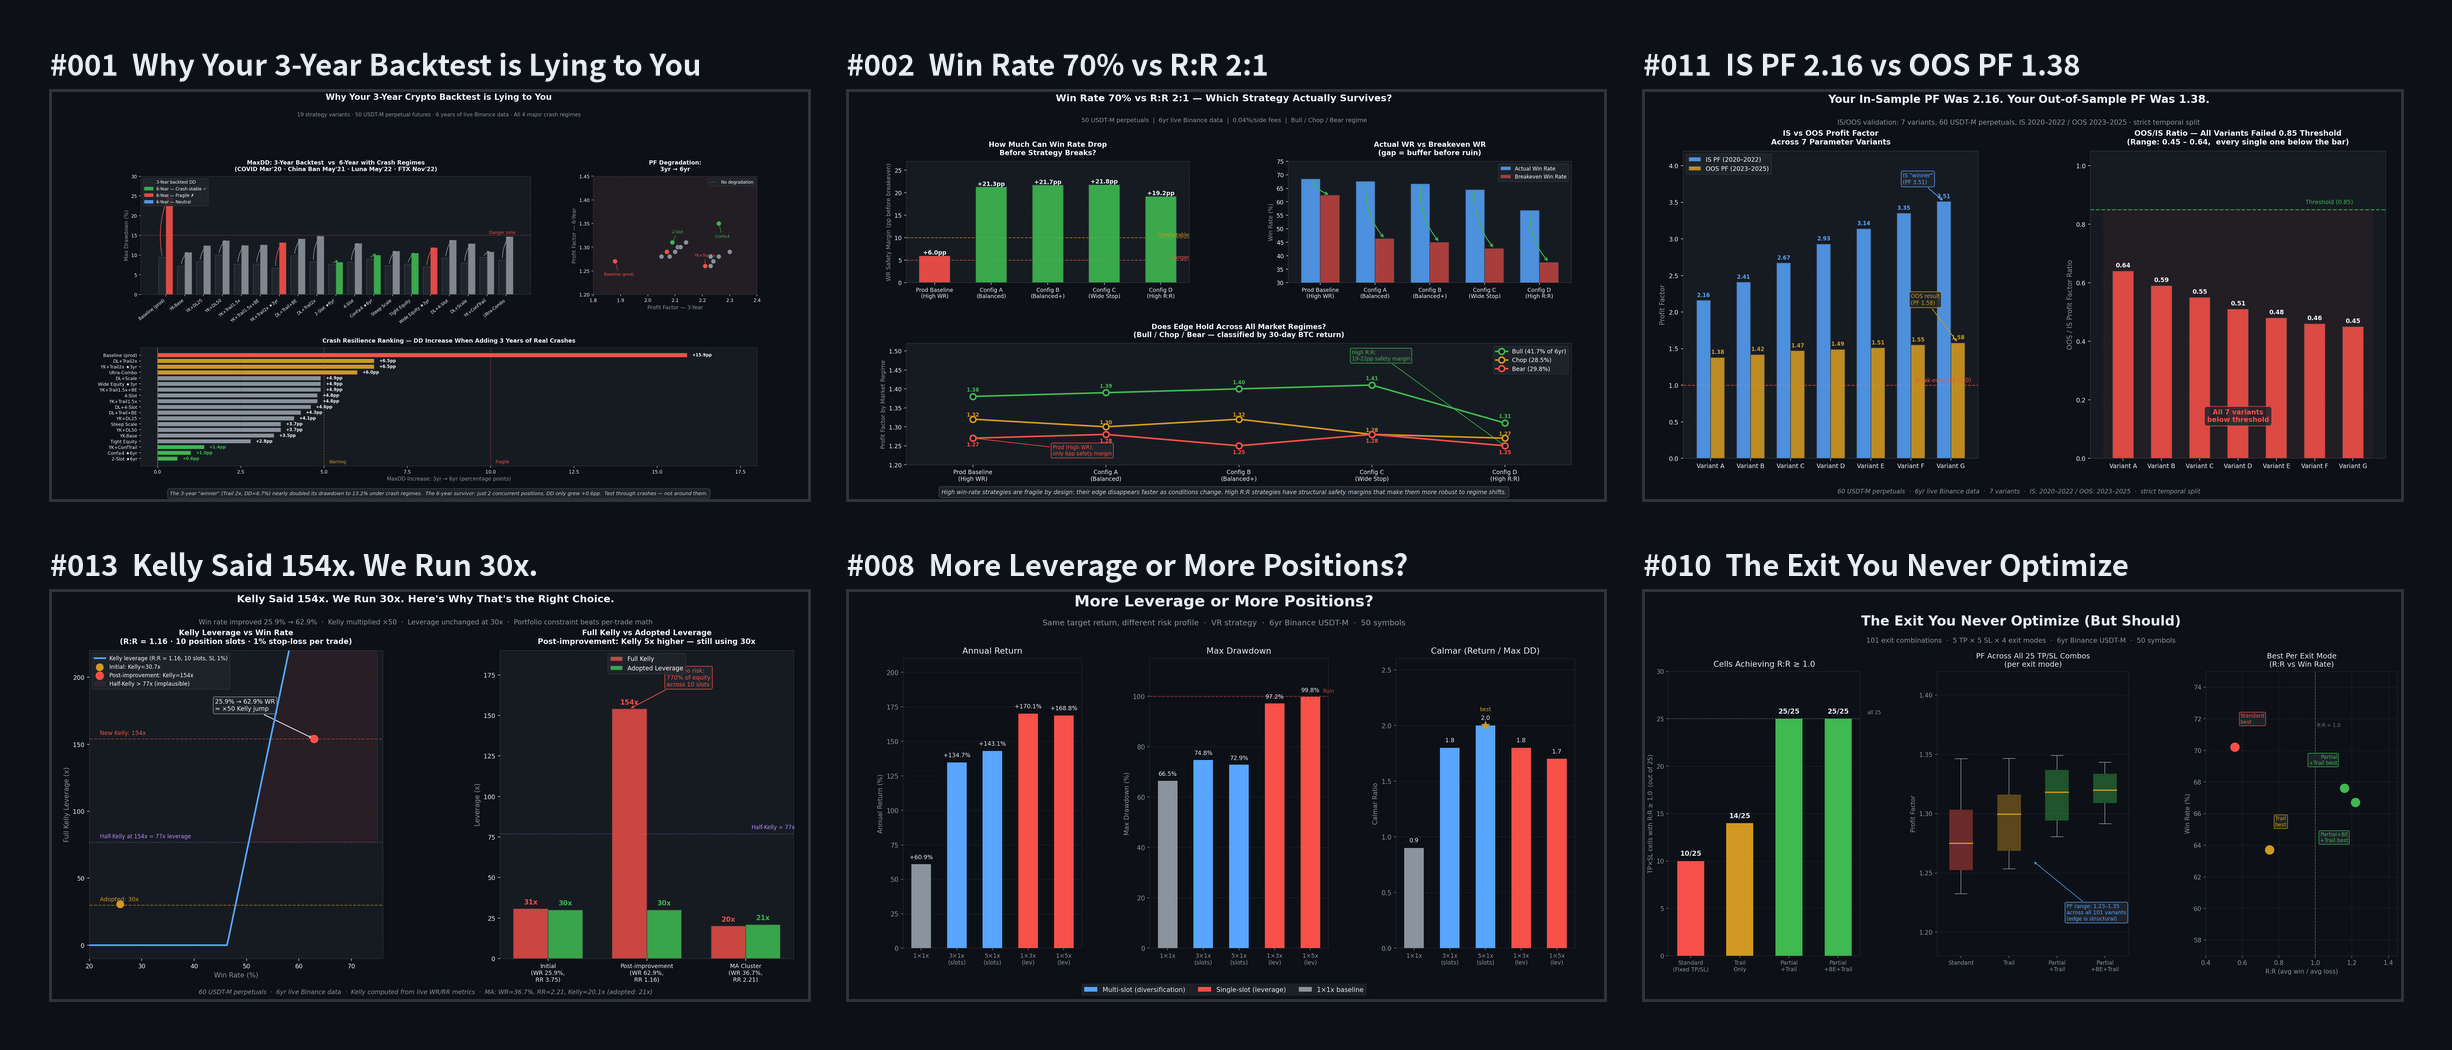
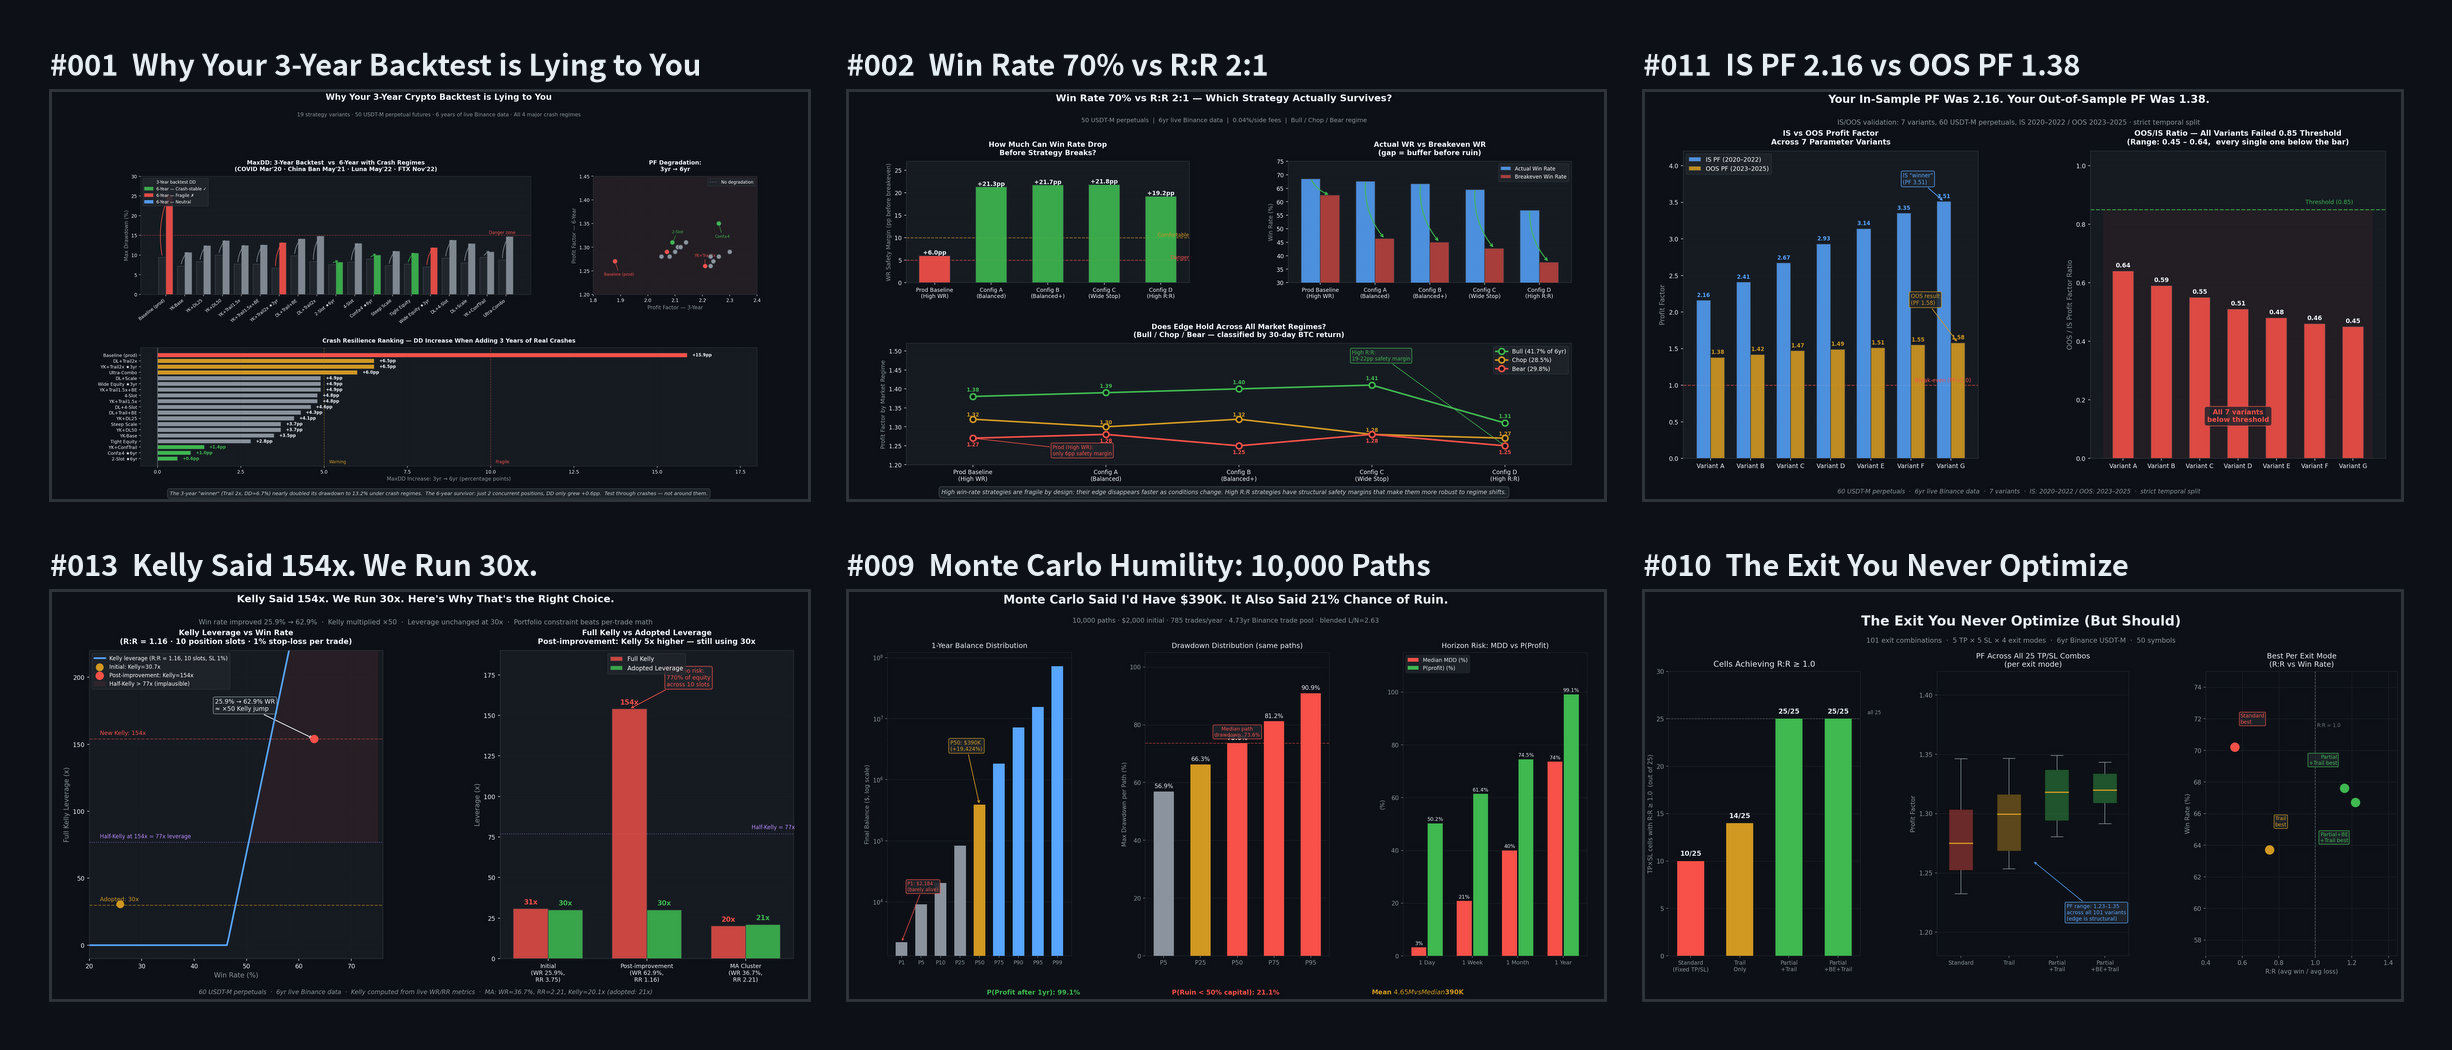
docs(readme): 첫 화면을 훅·히어로·사실 셋·Quick start 로 다듬고 독립 리뷰를 반영
처음 보는 사람이 스크롤 전에 무엇인지·왜 흥미로운지·어떻게 써 보는지를 알게 한다.
본문은 위에서 아래로 읽을 때 필요한 것만 남기고, 모든 수치는 코드·데이터와 대조했다.
리뷰어가 짚은 과장·낡은 수치·깨진 예제를 고쳤다. 관련 프로젝트 푸터는 stack.yml 생성분 그대로.

diff --git a/scripts/make_hero.py b/scripts/make_hero.py
@@ -25,7 +25,7 @@ PICKS = [
     ("002", "Win Rate 70% vs R:R 2:1", "insights/post_002/post_002_wr_vs_rr.png"),
     ("011", "IS PF 2.16 vs OOS PF 1.38", "insights/post_011/post_011_is_oos_divergence.png"),
     ("013", "Kelly Said 154x. We Run 30x.", "insights/post_013/post_013_kelly_leverage.png"),
-    ("008", "More Leverage or More Positions?", "insights/post_008/post_008_leverage_vs_slots.png"),
+    ("009", "Monte Carlo Humility: 10,000 Paths", "insights/post_009/post_009_monte_carlo_humility.png"),
     ("010", "The Exit You Never Optimize", "insights/post_010/post_010_exit_mode_beats_tpsl.png"),
 ]
 

diff --git a/README.md b/README.md
@@ -1,37 +1,41 @@
 # Crypto Quant Insights 📈
 
+Fourteen chart-backed lessons from validating a live Binance USDT-M futures system — what held up out-of-sample, what looked good and quietly wasn't, and why. The strategy stays private; the findings don't.
+
 [![License: MIT](https://img.shields.io/badge/License-MIT-blue.svg)](LICENSE)
 [![LinkedIn](https://img.shields.io/badge/LinkedIn-younghwan--chae-0A66C2?logo=linkedin&logoColor=white)](https://www.linkedin.com/in/younghwan-chae/)
 
 <picture>
   <source media="(prefers-color-scheme: dark)" srcset="docs/images/hero-dark.png">
-  <img alt="Six charts from the posts: 3-year vs 6-year crash test, win rate vs R:R, IS/OOS profit-factor gap, Kelly 154x vs 30x, leverage vs positions, exit-mode comparison" src="docs/images/hero-light.png" width="100%">
+  <img alt="Six charts from the posts: 3-year vs 6-year crash test, win rate vs R:R, IS/OOS profit-factor gap, Kelly 154x vs 30x, Monte Carlo 10,000 paths, exit-mode comparison" src="docs/images/hero-light.png" width="100%">
 </picture>
 
-Short, chart-backed research notes from validating a live Binance USDT-M futures system — what held up out-of-sample, what looked good and quietly wasn't, and why. Each post is self-contained: the finding, the chart, and the script that generated it.
+- **Kelly said 154x. We run 30x.** Per-trade Kelly ignores that ten open slots at half-Kelly would put 770% of equity at risk. → [#013](insights/post_013/post_013_kelly_leverage.md)
+- **IS profit factor 2.16, OOS 1.38.** Seven variants optimized on 2020–22 and frozen for 2023–25: every one dropped 36–55%, none passed the 0.85 OOS/IS bar. → [#011](insights/post_011/post_011_is_oos_divergence.md)
+- **Backtest said +$125, live delivered −$33, same signal, same bar.** Intrabar trail fills vs bar-close execution — a modeling assumption, not slippage. → [#014](insights/post_014/post_014_mfe_exit_gap.md)
 
-The strategy itself (signal generation, live parameters, P&L) stays private — see [binance-quant-engine](https://github.com/younghwan91/binance-quant-engine) for the public infra these findings were measured on. What's here is the *methodology and validation results*, not the alpha.
+Each post is self-contained: the finding, the chart, the script that drew it, and a LinkedIn-length version of the post. Signal logic and P&L are not here — the public infra these were measured on is [binance-quant-engine](https://github.com/younghwan91/binance-quant-engine). What's here is the *methodology and validation results*, not the alpha.
 
 ## Posts
 
-| # | Title | Core Focus | Key Quantitative Finding |
-|---|---|---|---|
-| 001 | [Why Your 3-Year Crypto Backtest is Lying to You](insights/post_001/post_001_3yr_vs_6yr_crash_test.md) | Crash Resilience | 3yr winner MaxDD doubled from 6.7% to 13.2% in 6yr crash tests (COVID/Luna/FTX); 2-slot variant was most stable (+0.6pp). |
-| 002 | [Win Rate 70% vs R:R 2:1 — Which Actually Survives?](insights/post_002/post_002_wr_vs_rr.md) | Risk-Reward Ratio | High WR (68.5%) baseline had only 6pp safety margin over breakeven; Balanced R:R (1.16–1.22) kept 21pp margin and cross-regime stability. |
-| 003 | [The Long Bias That Stopped Working](insights/post_003/post_003_long_short_reversal.md) | Directional Edge | Long-side EV advantage eroded from +1.84pp (2020-21) to −0.24pp (2025-26), proving structural symmetry decay in crypto perps. |
-| 004 | [More Symbols, More Alpha?](insights/post_004/post_004_universe_expansion.md) | Universe Selection | Expanding universe from top 30 to 60+ symbols diluted Calmar ratio due to liquidity decay and spread expansion in tail assets. |
-| 005 | [The Slot Count Sweet Spot](insights/post_005/post_005_slot_count_sweet_spot.md) | Position Sizing | Calmar ratio peaks at 10 concurrent slots (Calmar 5.8, AnnRet 187%); 12+ slots spikes drawdown without Calmar gain. |
-| 006 | [Your Trailing Stop Is Probably Already Good Enough](insights/post_006/post_006_trailing_stop_already_good.md) | Exit Mechanics | Standard ATR trailing stop captured 98% of the theoretical profit of complex dynamic trailing logic without overfitting. |
-| 007 | [I Tried Dynamic Parameters. Static Won.](insights/post_007/post_007_dynamic_params_failed.md) | Parameter Robustness | Adaptive regime-switching lookbacks overfitted historical noise; fixed, static parameters yielded superior out-of-sample stability. |
-| 008 | [More Leverage or More Positions?](insights/post_008/post_008_leverage_vs_slots.md) | Risk Scaling | Increasing concurrent slots across diversified pairs improved risk-adjusted returns far more safely than increasing leverage per position. |
-| 009 | [Monte Carlo Humility](insights/post_009/post_009_monte_carlo_humility.md) | Drawdown Estimation | Bootstrap Monte Carlo severely underestimated tail correlation clustering during black swan liquidity cascades. |
-| 010 | [The Exit You Never Optimize](insights/post_010/post_010_exit_mode_beats_tpsl.md) | Exit Strategy | Signal-based structural exits consistently outperformed fixed percentage TP/SL targets across multiple regime shifts. |
-| 011 | [Your IS PF Was 2.16. Your OOS PF Was 1.38.](insights/post_011/post_011_is_oos_divergence.md) | Walk-Forward Realism | Realistic In-Sample to Out-of-Sample profit factor degradation showed a ~36% haircut is standard even under zero-lookahead backtesting. |
-| 012 | [132 Configs Tested. Only 1 Was Profitable Every Single Year.](insights/post_012/post_012_yearly_consistency.md) | Cross-Year Consistency | Across 132 parameter variations, exactly 1 configuration maintained positive net return in every individual calendar year from 2020 to 2026. |
-| 013 | [Kelly Said 154x. We Run 30x. Here's Why.](insights/post_013/post_013_kelly_leverage.md) | Position Sizing | Mathematical Kelly Criterion recommended 154x leverage; operational limits capped leverage at 30x to survive fat-tail slippage. |
-| 014 | [Backtest Said +$125. Live Delivered -$33. Same Signal, Same Bar.](insights/post_014/post_014_mfe_exit_gap.md) | Execution Slippage | Intrabar trailing stop simulation produced an optimistic +$125 fill while live bar-close execution resulted in -$33 ($158 gap/slot). |
+| | Post | Finding |
+|---|---|---|
+| <a href="insights/post_001/post_001_3yr_vs_6yr_crash_test.md"><img src="insights/post_001/post_001_3yr_vs_6yr_crash_test.png" width="160" alt="post 001 chart"></a> | **001 · [Why Your 3-Year Crypto Backtest is Lying to You](insights/post_001/post_001_3yr_vs_6yr_crash_test.md)**<br>Crash resilience | The 3-year winner's MaxDD went 6.7% → 13.2% once COVID, Luna and FTX were in the window; the 2-slot config moved +0.6pp. |
+| <a href="insights/post_002/post_002_wr_vs_rr.md"><img src="insights/post_002/post_002_wr_vs_rr.png" width="160" alt="post 002 chart"></a> | **002 · [Win Rate 70% vs R:R 2:1 — Which Actually Survives?](insights/post_002/post_002_wr_vs_rr.md)**<br>Risk-reward ratio | The 68.5%-WR baseline sat 6pp above its breakeven; balanced R:R (1.16–1.22) kept a 21–22pp margin across bull, chop and bear. |
+| <a href="insights/post_003/post_003_long_short_reversal.md"><img src="insights/post_003/post_003_long_short_reversal.png" width="160" alt="post 003 chart"></a> | **003 · [The Long Bias That Stopped Working](insights/post_003/post_003_long_short_reversal.md)**<br>Directional edge | Long-minus-short EV gap shrank every year, +1.84pp (2020-21) → −0.24pp (2025-26), over 17,165 trades. |
+| <a href="insights/post_004/post_004_universe_expansion.md"><img src="insights/post_004/post_004_universe_expansion.png" width="160" alt="post 004 chart"></a> | **004 · [More Symbols, More Alpha?](insights/post_004/post_004_universe_expansion.md)**<br>Universe selection | 20 → 50 symbols raised Sharpe and avg PnL per trade with MaxDD flat (+0.1pp per step); the 20 → 30 step gave most of it. |
+| <a href="insights/post_005/post_005_slot_count_sweet_spot.md"><img src="insights/post_005/post_005_slot_count_sweet_spot.png" width="160" alt="post 005 chart"></a> | **005 · [The Slot Count Sweet Spot](insights/post_005/post_005_slot_count_sweet_spot.md)**<br>Position sizing | Calmar peaks at 10 concurrent slots; 12+ adds drawdown without a Calmar gain, and trades/day saturate past 10. |
+| <a href="insights/post_006/post_006_trailing_stop_already_good.md"><img src="insights/post_006/post_006_trailing_stop_already_good.png" width="160" alt="post 006 chart"></a> | **006 · [Your Trailing Stop Is Probably Already Good Enough](insights/post_006/post_006_trailing_stop_already_good.md)**<br>Exit mechanics | 24 trailing variants: step-ups, max-hold and VWMA floors changed nothing (runners exit in 6.9 bars); only a tighter ATR trail moved Calmar, by +1.8%. |
+| <a href="insights/post_007/post_007_dynamic_params_failed.md"><img src="insights/post_007/post_007_dynamic_params_failed.png" width="160" alt="post 007 chart"></a> | **007 · [I Tried Dynamic Parameters. Static Won.](insights/post_007/post_007_dynamic_params_failed.md)**<br>Parameter robustness | Regime-adaptive params nudged PF up 0.03 but cut trades 28% and took Calmar 5.8 → 3.1 — not implemented. |
+| <a href="insights/post_008/post_008_leverage_vs_slots.md"><img src="insights/post_008/post_008_leverage_vs_slots.png" width="160" alt="post 008 chart"></a> | **008 · [More Leverage or More Positions?](insights/post_008/post_008_leverage_vs_slots.md)**<br>Risk scaling | 5 slots × 1x and 1 slot × 5x land on similar returns; MaxDD is 72.9% vs 99.8%. Cross-trade PnL correlation ρ = 0.051 is why. |
+| <a href="insights/post_009/post_009_monte_carlo_humility.md"><img src="insights/post_009/post_009_monte_carlo_humility.png" width="160" alt="post 009 chart"></a> | **009 · [Monte Carlo Humility](insights/post_009/post_009_monte_carlo_humility.md)**<br>Drawdown estimation | 10,000 bootstrap paths: 99.1% end profitable *and* the median MaxDD is 73.6%; mean outcome is 12× the median. |
+| <a href="insights/post_010/post_010_exit_mode_beats_tpsl.md"><img src="insights/post_010/post_010_exit_mode_beats_tpsl.png" width="160" alt="post 010 chart"></a> | **010 · [The Exit You Never Optimize](insights/post_010/post_010_exit_mode_beats_tpsl.md)**<br>Exit strategy | Fixed TP/SL: 10 of 25 grid cells reach R:R ≥ 1. Partial + trail: 25 of 25. PF barely moves (1.23–1.35 across 101 variants). |
+| <a href="insights/post_011/post_011_is_oos_divergence.md"><img src="insights/post_011/post_011_is_oos_divergence.png" width="160" alt="post 011 chart"></a> | **011 · [Your IS PF Was 2.16. Your OOS PF Was 1.38.](insights/post_011/post_011_is_oos_divergence.md)**<br>Walk-forward realism | Strict temporal split, 7 variants: OOS/IS ratio 0.45–0.64, 0 of 7 above the 0.85 threshold. |
+| <a href="insights/post_012/post_012_yearly_consistency.md"><img src="insights/post_012/post_012_yearly_consistency.png" width="160" alt="post 012 chart"></a> | **012 · [132 Configs Tested. Only 1 Was Profitable Every Single Year.](insights/post_012/post_012_yearly_consistency.md)**<br>Cross-year consistency | 68 of 132 pass PF > 1 and N > 1,000; add "no losing year 2020–2025" and 1 survives. 2022 (Luna, FTX) and 2023 (no momentum) do the filtering. |
+| <a href="insights/post_013/post_013_kelly_leverage.md"><img src="insights/post_013/post_013_kelly_leverage.png" width="160" alt="post 013 chart"></a> | **013 · [Kelly Said 154x. We Run 30x. Here's Why.](insights/post_013/post_013_kelly_leverage.md)**<br>Position sizing | WR 25.9% → 62.9% multiplied full Kelly ~5× (30.7x → 154x); leverage stayed at 30x because Kelly is per-trade, not per-portfolio. |
+| <a href="insights/post_014/post_014_mfe_exit_gap.md"><img src="insights/post_014/post_014_mfe_exit_gap.png" width="160" alt="post 014 chart"></a> | **014 · [Backtest Said +$125. Live Delivered -$33. Same Signal, Same Bar.](insights/post_014/post_014_mfe_exit_gap.md)**<br>Execution model | Intrabar vs bar-close trail exits: 31bp per trade on average, PF 1.99 → 1.41 on the 14.7% of trades that hit the trail. |
 
-Each folder also has a `.py` script that regenerates its chart from the numbers in the write-up, and a `.txt` with the raw output those numbers came from.
+**How to read / reproduce.** Open a post's `.md`; the `.png` next to it is the chart, the `.txt` is the LinkedIn-length version of the post, and the `.py` redraws the chart from the numbers in the write-up with only matplotlib and numpy: `uv run --with matplotlib --with numpy python insights/post_011/post_011_is_oos_divergence.py`.
 
 ## License
 
